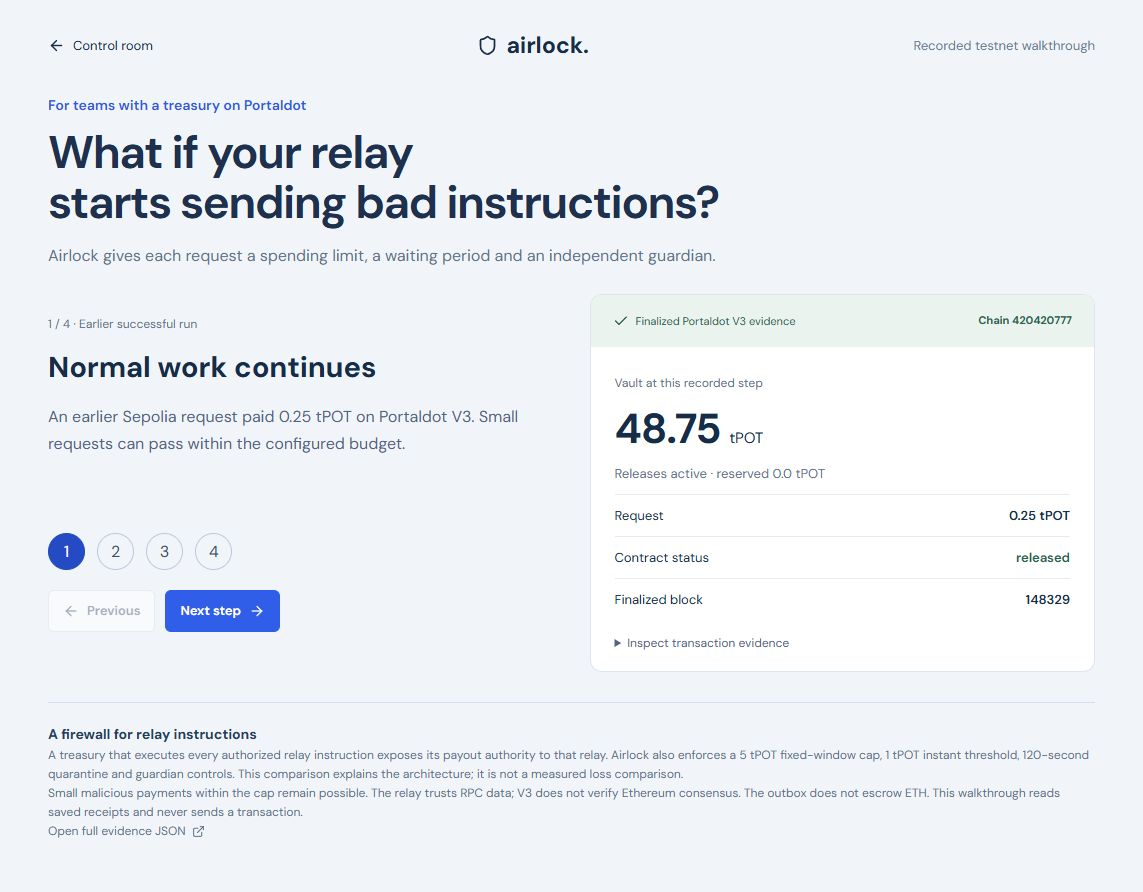
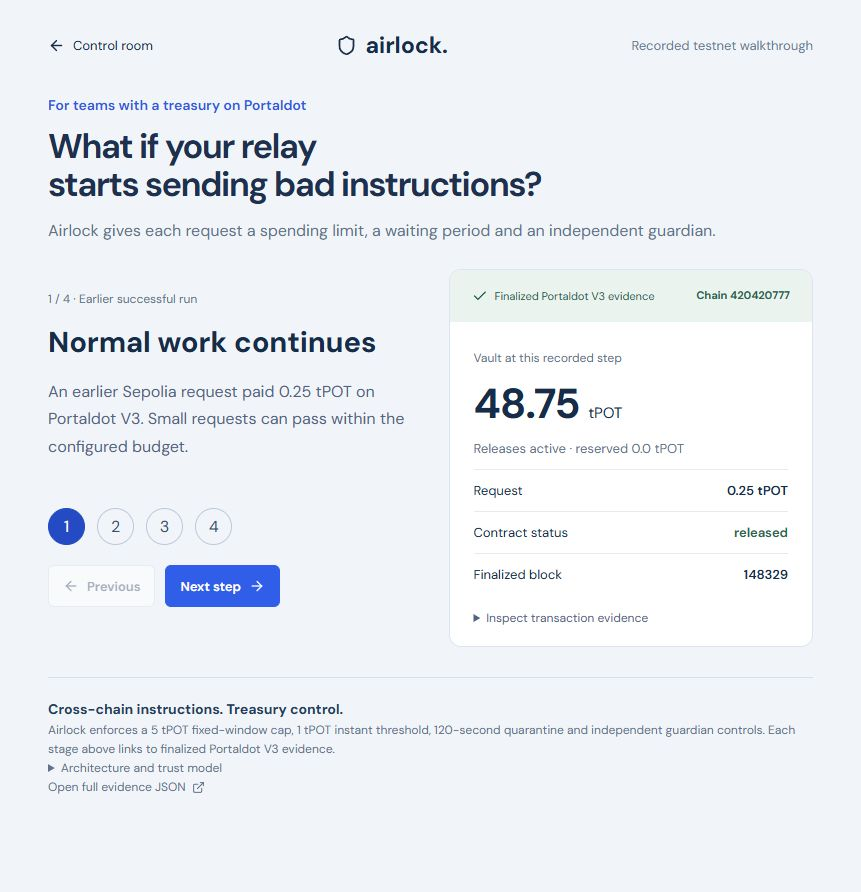
Render approved Week 2 story with Gemini Fenrir narration

diff --git a/checkin-video/src/Composition.tsx b/checkin-video/src/Composition.tsx
@@ -3,15 +3,15 @@ import scenes from "../public/scenes.json";
 const ink="#182e4a",blue="#315adc",muted="#536981";
 function Scene({index}:{index:number}){
  const frame=useCurrentFrame(),{fps}=useVideoConfig(),s=scenes[index];
- const captions=["For teams with a treasury on Portaldot", "Architecture explanation; no baseline loss experiment", "Earlier confirmed run; six canonical source confirmations", "Controlled request to the guardian wallet", "Funding recovery delayed response beyond 120 seconds", "0 tPOT paid during this scenario; 4 tPOT cancelled", "Trusted RPC relay; not an Ethereum consensus proof", "Testnet prototype; independent review still needed"];
+ const caption=s.caption;
  return <AbsoluteFill style={{background:"#f1f5fa",fontFamily:"Arial, sans-serif",color:ink,padding:80,opacity:interpolate(frame,[0,fps*.35],[0,1],{extrapolateRight:"clamp"})}}>
-  <Audio src={staticFile(`voice-${index}.wav`)}/>
+  <Audio src={staticFile(s.audio)}/>
   <div style={{display:"flex",justifyContent:"space-between",fontSize:28,color:muted}}><strong style={{color:ink,fontSize:36}}>airlock.</strong><span>Portaldot Hacker House 2026 | Week 2</span></div>
   {index===1?<><h1 style={{fontSize:64,margin:"45px 0 0",letterSpacing:-2}}>{s.title}</h1><Img src={staticFile(s.image)} style={{position:"absolute",top:260,left:150,width:1620,height:710,objectFit:"contain"}}/></>:s.image?<>
-   <div style={{position:"absolute",left:80,top:215,width:530}}><div style={{fontSize:28,color:blue,marginBottom:30}}>{s.chapter}</div><h1 style={{fontSize:78,lineHeight:1.05,letterSpacing:-3,margin:0}}>{s.title}</h1><p style={{fontSize:32,lineHeight:1.45,color:muted,marginTop:45}}>{captions[index]}</p><div style={{borderTop:"3px solid #d3deeb",marginTop:40,paddingTop:25,fontSize:27,lineHeight:1.5}}>Real application screens<br/>Saved finalized V3 evidence<br/>No new signing in this video</div></div>
+   <div style={{position:"absolute",left:80,top:215,width:530}}><div style={{fontSize:28,color:blue,marginBottom:30}}>{s.chapter}</div><h1 style={{fontSize:78,lineHeight:1.05,letterSpacing:-3,margin:0}}>{s.title}</h1><p style={{fontSize:32,lineHeight:1.45,color:muted,marginTop:45}}>{caption}</p><div style={{borderTop:"3px solid #d3deeb",marginTop:40,paddingTop:25,fontSize:27,lineHeight:1.5}}>Recorded public-testnet run<br/>Finalized Portaldot V3 evidence<br/>Receipts available in the app</div></div>
    <Img src={staticFile(s.image)} style={{position:"absolute",left:670,top:155,width:1170,height:820,objectFit:"contain",border:"1px solid #d3deeb",borderRadius:12,background:"#f1f5fa"}}/>
-  </>:<div style={{position:"absolute",left:100,top:245,right:100}}><div style={{fontSize:32,color:blue,marginBottom:35}}>{s.chapter}</div><h1 style={{fontSize:100,lineHeight:1.08,letterSpacing:-4,margin:0,maxWidth:1500}}>{s.title}</h1><p style={{fontSize:42,lineHeight:1.5,color:muted,maxWidth:1570,marginTop:50}}>{index===0?"A valid relay signature can still carry a bad payout instruction.":index===6?"Quarantine, guardian pause and cancellation are verified. Small malicious payouts within the cap are still possible.":"Guardian alerts. Response readiness. Adversarial integration tests."}</p>{index===6&&<div style={{fontSize:28,lineHeight:1.7,marginTop:30}}>V3 contract: 0x3bbb62bf86d40f26a87e70fe56ee073e69198713<br/>Full receipts: artifacts/v3-attack-demo.json</div>}{index===7&&<div style={{display:"flex",gap:75,marginTop:60,fontSize:35}}><span><strong style={{fontSize:70}}>0</strong><br/>tPOT paid in scenario</span><span><strong style={{fontSize:70}}>4</strong><br/>tPOT cancelled</span><span><strong style={{fontSize:70}}>48.75</strong><br/>tPOT vault after response</span></div>}</div>}
-  <div style={{position:"absolute",left:80,right:80,bottom:35,display:"flex",justifyContent:"space-between",fontSize:23,color:muted}}><span>{captions[index]}</span><span>{index+1} / 8</span></div>
+  </>:<div style={{position:"absolute",left:100,top:245,right:100}}><div style={{fontSize:32,color:blue,marginBottom:35}}>{s.chapter}</div><h1 style={{fontSize:100,lineHeight:1.08,letterSpacing:-4,margin:0,maxWidth:1500}}>{s.title}</h1><p style={{fontSize:42,lineHeight:1.5,color:muted,maxWidth:1570,marginTop:50}}>{index===0?"Submitting a request should not mean unlimited access to treasury funds.":index===6?"The treasury, payout limits and guardian controls live on Portaldot V3. Sepolia supplies the requests.":"Guardian notifications. Continuous queue monitoring. Policies for each team."}</p>{index===6&&<div style={{fontSize:28,lineHeight:1.7,marginTop:30}}>V3 contract: 0x3bbb62bf86d40f26a87e70fe56ee073e69198713<br/>Full receipts: artifacts/v3-attack-demo.json</div>}{index===7&&<div style={{display:"flex",gap:75,marginTop:60,fontSize:35}}><span><strong style={{fontSize:70}}>0</strong><br/>tPOT paid in scenario</span><span><strong style={{fontSize:70}}>4</strong><br/>tPOT cancelled</span><span><strong style={{fontSize:70}}>48.75</strong><br/>tPOT vault after response</span></div>}</div>}
+  <div style={{position:"absolute",left:80,right:80,bottom:35,display:"flex",justifyContent:"space-between",fontSize:23,color:muted}}><span>{caption}</span><span>{index+1} / 8</span></div>
  </AbsoluteFill>;
 }
 export const MyComponent=()=>{
@@ -23,7 +23,7 @@ export const MyComponent=()=>{
   <Sequence name="Quarantine" from={scenes[3].start} durationInFrames={scenes[3].frames} premountFor={fps}><Scene index={3}/></Sequence>
   <Sequence name="Pause" from={scenes[4].start} durationInFrames={scenes[4].frames} premountFor={fps}><Scene index={4}/></Sequence>
   <Sequence name="Cancel" from={scenes[5].start} durationInFrames={scenes[5].frames} premountFor={fps}><Scene index={5}/></Sequence>
-  <Sequence name="Trust limits" from={scenes[6].start} durationInFrames={scenes[6].frames} premountFor={fps}><Scene index={6}/></Sequence>
+  <Sequence name="Why Portaldot" from={scenes[6].start} durationInFrames={scenes[6].frames} premountFor={fps}><Scene index={6}/></Sequence>
   <Sequence name="Next milestone" from={scenes[7].start} durationInFrames={scenes[7].frames} premountFor={fps}><Scene index={7}/></Sequence>
  </AbsoluteFill>;
 };

diff --git a/src/StoryDemo.jsx b/src/StoryDemo.jsx
@@ -1,7 +1,7 @@
 import React,{useEffect,useState} from 'react';
 import {ArrowLeft,ArrowRight,Shield,Check,ExternalLink} from 'lucide-react';
 const titles=['Normal work continues','A larger request must wait','An independent guardian intervenes','The request is cancelled'];
-const descriptions=['An earlier Sepolia request paid 0.25 tPOT on Portaldot V3. Small requests can pass within the configured budget.','A controlled 4 tPOT request exceeds the 1 tPOT instant threshold. The contract reserves it without sending the payout.','The guardian pauses releases independently of the relay. In this recorded run, funding recovery delayed the pause beyond the 120-second quarantine.','The guardian cancels the queued request. Its nonce remains consumed. The vault balance stays at 48.75 tPOT.'];
+const descriptions=['An earlier Sepolia request paid 0.25 tPOT on Portaldot V3. Small requests can pass within the configured budget.','A controlled 4 tPOT request exceeds the 1 tPOT instant threshold. The contract reserves it without sending the payout.','The guardian pauses releases independently of the relay. While paused, queued requests cannot be executed.','The guardian cancels the queued request. Its nonce remains consumed. The vault balance stays at 48.75 tPOT.'];
 export default function StoryDemo({onBack}){
  const [report,setReport]=useState(null),[step,setStep]=useState(0),[error,setError]=useState('');
  useEffect(()=>{fetch('/api/live/demo').then(r=>{if(!r.ok)throw Error('Evidence unavailable');return r.json();}).then(setReport).catch(e=>setError(e.message));},[]);
@@ -13,6 +13,6 @@ export default function StoryDemo({onBack}){
  <section className="story-intro"><p>For teams with a treasury on Portaldot</p><h1>What if your relay<br/>starts sending bad instructions?</h1><p>Airlock gives each request a spending limit, a waiting period and an independent guardian.</p></section>
  <div className="story-layout"><section className="story-explanation"><div className="story-counter">{step+1} / 4 · {step===0?'Earlier successful run':'Controlled request · 22 October 2026'}</div><h2>{titles[step]}</h2><p>{descriptions[step]}</p><nav aria-label="Recorded demo steps" className="story-tabs">{titles.map((title,i)=><button key={title} aria-label={`Step ${i+1}: ${title}`} aria-current={step===i?'step':undefined} className={step===i?'active':''} onClick={()=>setStep(i)}>{i+1}</button>)}</nav><div className="story-controls"><button className="button subtle" disabled={step===0} onClick={()=>setStep(step-1)}><ArrowLeft size={16}/>Previous</button><button className="button primary" disabled={step===3} onClick={()=>setStep(step+1)}>Next step<ArrowRight size={16}/></button></div></section>
  <section className="story-proof" aria-live="polite"><div className="story-proof-heading"><span><Check size={16}/>Finalized Portaldot V3 evidence</span><strong>Chain 420420777</strong></div><div className="story-vault"><span>Vault at this recorded step</span><strong>{state?.balance||'Unavailable'} <small>tPOT</small></strong><p>{state?.paused?'Releases paused':'Releases active'} · reserved {state?.reserved||'0'} tPOT</p></div><dl><div><dt>Request</dt><dd>{message?.amount||'—'} tPOT</dd></div><div><dt>Contract status</dt><dd className="story-message-status">{message?.status||'Unavailable'}</dd></div><div><dt>Finalized block</dt><dd>{state?.finalizedBlock||'—'}</dd></div></dl><details><summary>Inspect transaction evidence</summary><p>Destination transaction</p><code>{operation?.transactionHash||'No finalized receipt'}</code><p>V3 contract</p><code>{state?.contract}</code>{operation?.source&&<a href={`https://sepolia.etherscan.io/tx/${operation.source.transactionHash}`} target="_blank" rel="noreferrer">Sepolia request <ExternalLink size={13}/></a>}</details></section></div>
- <aside className="story-boundary"><strong>A firewall for relay instructions</strong><p>A treasury that executes every authorized relay instruction exposes its payout authority to that relay. Airlock also enforces a 5 tPOT fixed-window cap, 1 tPOT instant threshold, 120-second quarantine and guardian controls. This comparison explains the architecture; it is not a measured loss comparison.</p><p>Small malicious payments within the cap remain possible. The relay trusts RPC data; V3 does not verify Ethereum consensus. The outbox does not escrow ETH. This walkthrough reads saved receipts and never sends a transaction.</p><a href="/api/live/demo" target="_blank" rel="noreferrer">Open full evidence JSON <ExternalLink size={13}/></a></aside>
+ <aside className="story-boundary"><strong>Cross-chain instructions. Treasury control.</strong><p>Airlock enforces a 5 tPOT fixed-window cap, 1 tPOT instant threshold, 120-second quarantine and independent guardian controls. Each stage above links to finalized Portaldot V3 evidence.</p><details><summary>Architecture and trust model</summary><p>The relay trusts configured RPC data; V3 enforces payout rules and does not verify Ethereum consensus. The outbox emits requests without escrowing ETH. Guardian notifications and continuous monitoring are planned. Full threat assumptions and the recorded operation history remain in the project documentation.</p></details><a href="/api/live/demo" target="_blank" rel="noreferrer">Open full evidence JSON <ExternalLink size={13}/></a></aside>
  </main>;
 }

diff --git a/docs/check-in/NARRATION.md b/docs/check-in/NARRATION.md
@@ -1,35 +1,39 @@
-# Video narration
+# Airlock Week 2 narration
 
-English synthetic narration, Microsoft Zira Desktop. Recorded evidence; no new transactions.
+Approved presentation script. English voice: Gemini Flash TTS / Fenrir through OpenRouter. Recorded public-testnet evidence.
 
-## 1. Why Airlock?
+## 1. The problem
 
-Teams hold a treasury on Portaldot, but accept payout instructions from another chain. If the trusted relay is compromised, a valid relay signature can still authorize a bad request.
+What if your relay starts sending the wrong payout instructions? To a treasury, those requests can still look legitimate. They come from a trusted intermediary. But being allowed to submit a request shouldn't mean unlimited access to the funds.
 
-## 2. The boundary
+## 2. The solution
 
-Airlock puts payout rules on Portaldot V3. Small requests can pass within a budget. Larger requests wait in quarantine. A separate guardian can pause and cancel. The diagram explains the architecture, not a measured loss comparison.
+Airlock is a payout firewall on Portaldot V3. It sets clear boundaries: how much can be paid immediately, how much can leave within a fixed window, and which requests have to wait. A separate guardian can pause payouts and cancel a request.
 
 ## 3. Normal payout
 
-First, an earlier real request from Ethereum Sepolia. The relay checks the event after six canonical confirmations. On Portaldot V3, the quarter-token payout is released. This is a recorded walkthrough, not a new transaction.
+Let's follow a real flow between Ethereum Sepolia and Portaldot V3. A request is created on Sepolia. The relay waits for six confirmations, then submits it to Airlock. A small payout of zero point two five test tokens goes through. The result is confirmed by a transaction on Portaldot V3.
 
 ## 4. Quarantine
 
-Next, a controlled four-token request to the guardian wallet models an untrusted relay instruction. It exceeds the one-token instant threshold. The contract queues it and reserves four tokens. The treasury balance stays at forty-eight point seven five.
+Now a request comes in for four tokens. That's above the instant payout threshold, so it enters quarantine. Airlock reserves the amount, while the funds stay in the treasury. Other payouts can't spend that reserved balance.
 
 ## 5. Guardian response
 
-The independent guardian pauses releases. Our first pause preflight rejected before signing because the guardian needed a storage deposit. Funding recovery delayed this pause beyond the quarantine window. We record that limitation instead of claiming a timely response.
+The guardian reviews the request and pauses payouts. This doesn't require the relay's permission. The guardian has separate authority to protect the treasury. While payouts are paused, the queued request cannot be executed.
 
 ## 6. Cancellation
 
-The guardian then cancels the request. Its nonce stays consumed. Zero tokens were paid during this scenario, and the vault remained at forty-eight point seven five. The interface exposes the actual transaction hashes and finalized blocks.
+The guardian then cancels the four-token request. The reservation is released, and that same request can never be executed again. The result: four tokens cancelled, zero paid during this scenario, and forty-eight point seven five tokens still in the treasury. Each stage is backed by contract addresses, transaction hashes, and finalized blocks in the interface.
 
-## 7. What this proves
+## 7. Why Portaldot
 
-This prototype demonstrates a real cross-testnet request, quarantine, independent pause and cancellation. It does not verify Ethereum consensus. The relay still trusts RPC data. Small malicious payouts inside the cap remain possible. This is not an audited bridge.
+Airlock's rules execute in a contract on Portaldot V3. This is where the treasury lives, payout limits are checked, and pause and cancellation take effect. Sepolia is the source of requests, and the relay carries them between networks. These are results from a real run across two public testnets.
 
 ## 8. Next milestone
 
-Before the final submission, we will focus on guardian alerts, response inside the quarantine window, stronger adversarial integration tests and clearer operator recovery. Airlock makes the limits of relay authority visible and enforceable on Portaldot.
+Next, we're adding guardian notifications, continuous queue monitoring, and easier policy configuration for each team's workflow. Airlock lets a treasury accept requests from another chain while keeping control of payouts on Portaldot.
+
+## Presentation notes
+
+This is the user-approved presentation script. It describes confirmed payout, quarantine, pause and cancellation mechanics without claiming a response within a measured deadline. Technical assumptions and the historical funding recovery remain documented in WEEK-2.md, the threat model and original transaction records.

diff --git a/checkin-video/README.md b/checkin-video/README.md
@@ -1,12 +1,12 @@
 # Airlock Week 2 video
 
-1920x1080, 15 fps, approximately 2 minutes 25 seconds, English synthetic narration (Microsoft Zira Desktop). The eight-scene composition uses screenshots captured from the actual recorded-evidence walkthrough and the architecture SVG. It does not simulate new transactions or imply a live recording of signing.
+1920x1080, 15 fps, approximately 2 minutes 23 seconds, English synthetic narration (Gemini Flash TTS / Fenrir via OpenRouter). The eight-scene composition uses screenshots captured from the actual recorded-evidence walkthrough and the architecture SVG. It does not simulate new transactions or imply a live recording of signing.
 
 ## Reproduce on Windows
 
 From this project directory: `npm ci`.
 
-From the repository root: `powershell -NoProfile -File checkin-video/narrate.ps1`.
+From the repository root: `node checkin-video/narrate-openrouter.mjs --generate`. The key is read from the ignored local `.env` (`OPENROUTER_API_KEY` or `OPENROUTER`). Speech is cached by script hash to prevent accidental regeneration. Billing receipts, when available, remain in ignored `out/fenrir-narration.json`. The Windows speech script is retained only as a legacy fallback.
 
 Return to this directory and run:
 
@@ -15,6 +15,6 @@ npx remotion studio --no-open
 npx remotion render src/index.ts AirlockWeek2 ../docs/check-in/airlock-week2.mp4 --codec=h264 --crf=19 --concurrency=2 --port=3002
 ```
 
-Narration text, screenshot references, scene start frames and durations are in `public/scenes.json`. Each scene includes 1.1 seconds of padding after its recorded narration. If the speech engine or speaking rate changes, recompute durations before rendering.
+Narration text, screenshot references, scene start frames and durations are in `public/scenes.json`. Each scene includes 0.8 seconds of padding after its recorded narration. The OpenRouter narration script computes durations from the generated PCM audio before rendering.
 
 Output MP4 and generated WAV narration are local artifacts excluded from Git. The screenshot assets and SVG are included. There is no public URL or submission created by these commands.

diff --git a/docs/check-in/SUBMISSION-CHECKLIST.md b/docs/check-in/SUBMISSION-CHECKLIST.md
@@ -6,7 +6,7 @@ Deadline supplied by the organizers: 24 October 2026, 12:00 UTC / 15:00 Moscow.
 - [x] Local code history and complete README.
 - [x] Architecture diagram.
 - [x] Progress, remaining tasks, addresses and hashes in WEEK-2.md.
-- [x] Video rendered and reviewed: airlock-week2.mp4, 2:25, English narration, 1920x1080.
+- [x] Video rendered and reviewed: airlock-week2.mp4, 2:23, English narration, 1920x1080.
 - [ ] Publish repository yourself, preserving commit history and excluding .env and local wallet files.
 - [ ] Upload the MP4 somewhere publicly accessible and test the viewing link while signed out.
 - [ ] Add real GitHub and video URLs to DoraHacks; use WEEK-2.md for the progress fields.

diff --git a/docs/check-in/WEEK-2.md b/docs/check-in/WEEK-2.md
@@ -50,7 +50,7 @@ The initial guardian pause preflight was rejected before signing due to insuffic
 - Final documentation, pitch deck and final video.
 
 ## Video
-Local file: `airlock-week2.mp4` (2:25, English synthetic narration). It uses actual application screens backed by recorded finalized evidence. Upload it to obtain a public viewing link before submitting.
+Local file: `airlock-week2.mp4` (2:23, English Fenrir narration). It uses actual application screens backed by recorded finalized evidence. Upload it to obtain a public viewing link before submitting.
 
 ## Submission readiness
 Prepared locally. Nothing in this folder has been uploaded or submitted.
